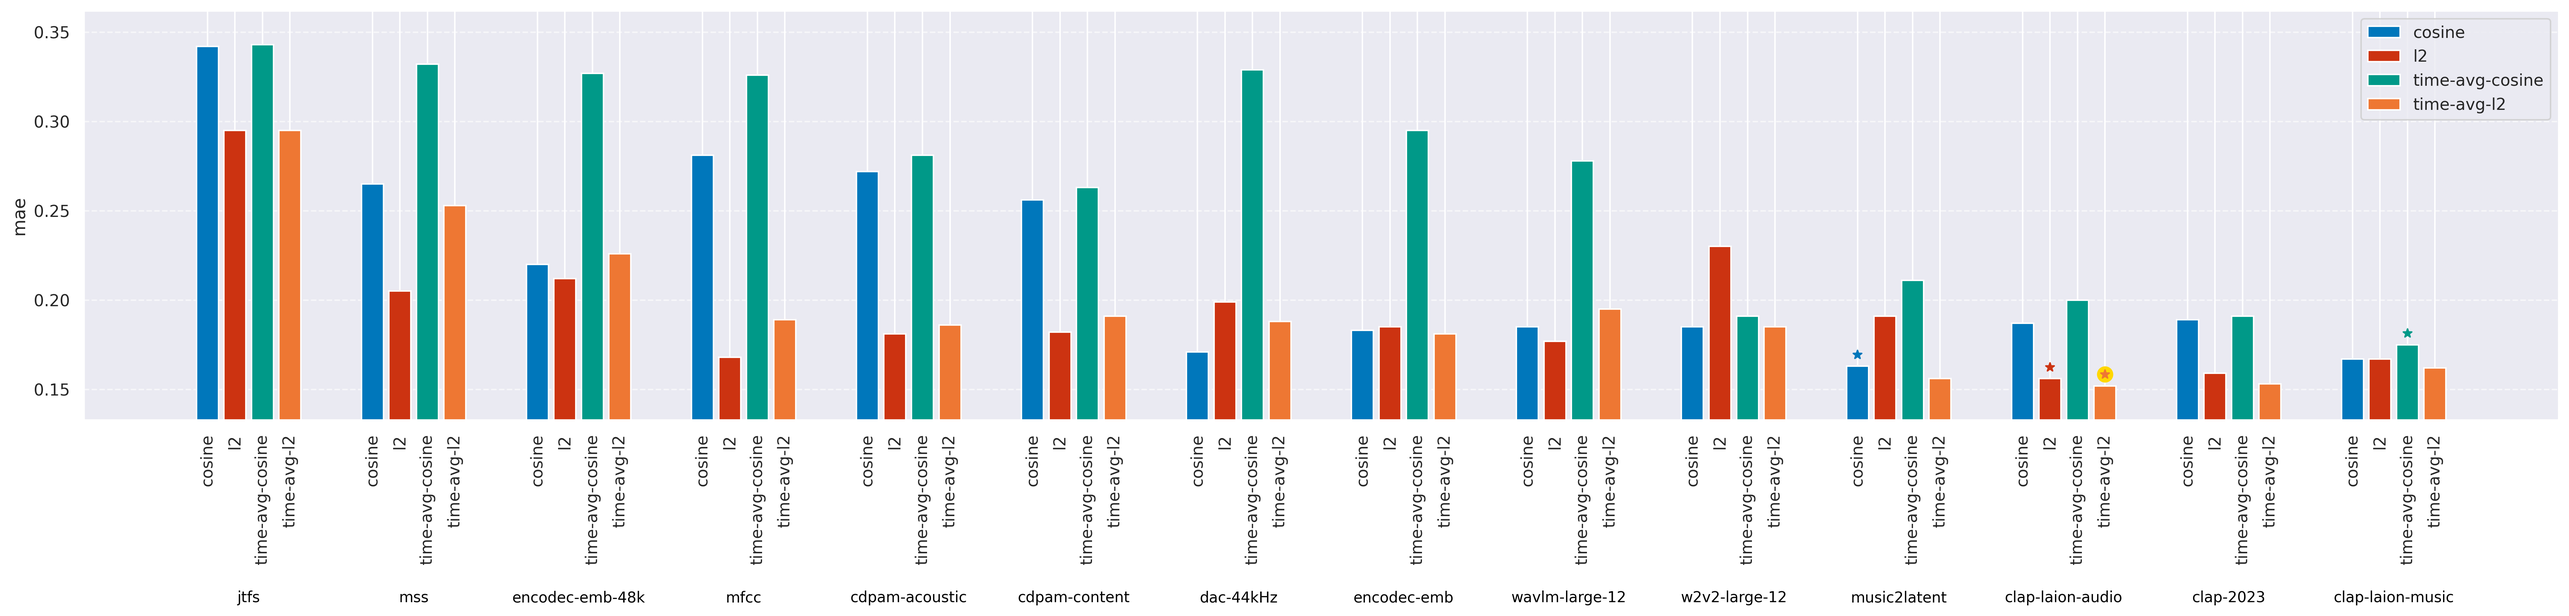
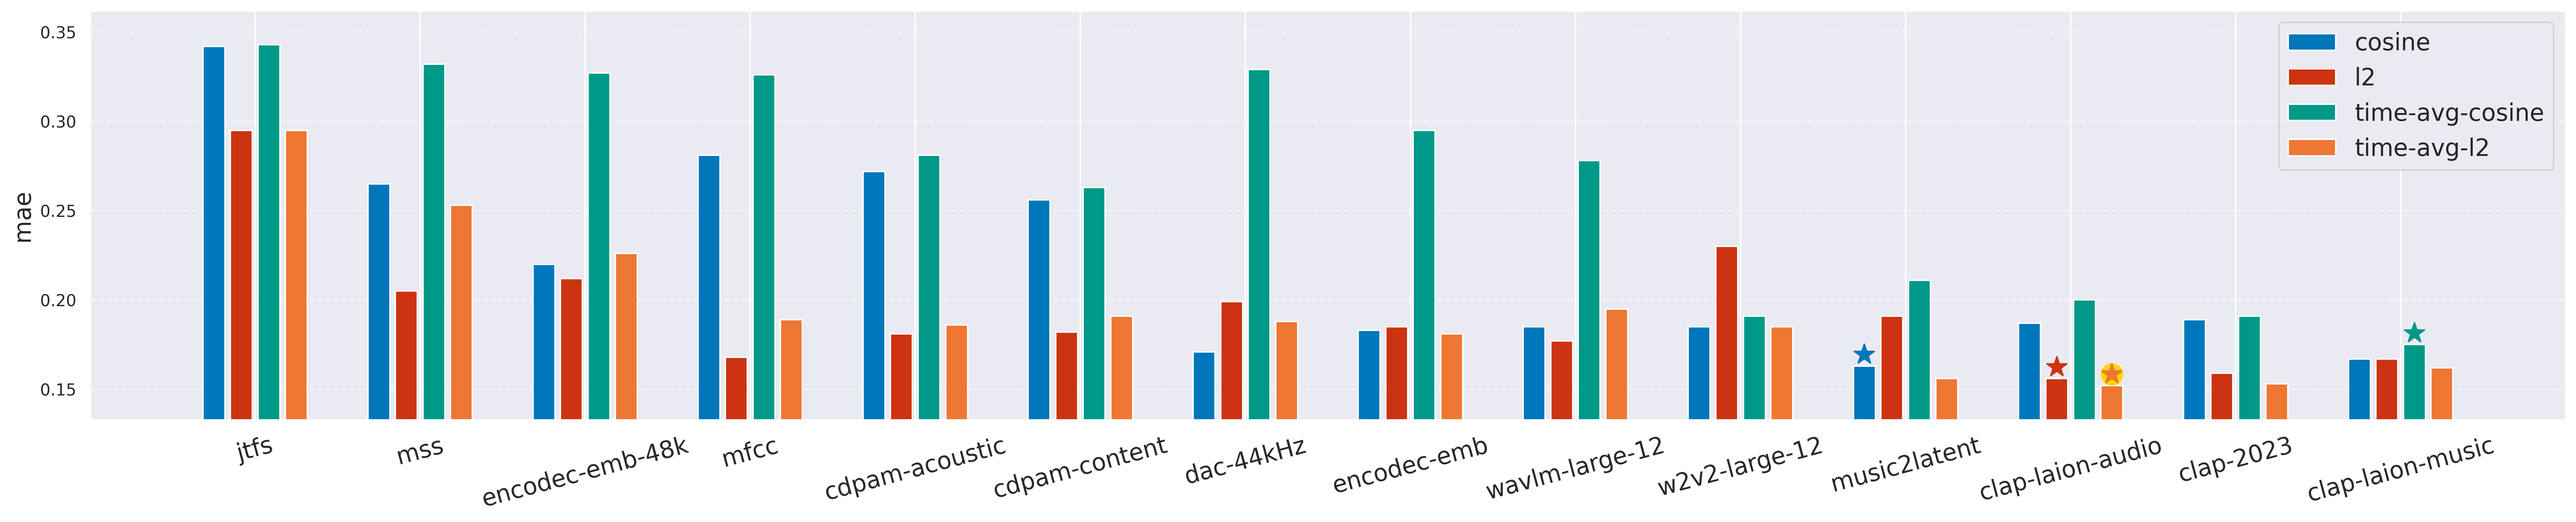
update plots

diff --git a/scripts/plot_leader_board.py b/scripts/plot_leader_board.py
@@ -120,37 +120,42 @@ for metric, scores in metric_scores.items():
 
     # Plot the gold marker behind the original marker
     ax.scatter(overall_best_x, overall_best_y + small_margin / 3, 
-            marker='o', color='gold', s=100)  # Larger size and lower z-order
+            marker='o', color='gold', s=200)  # Larger size and lower z-order
 
     # Plot the original markers
     ax.scatter(best_x, [y + small_margin / 3 for y in best_y], 
-            marker='*', color=colors)
+            marker='*', color=colors, s=200)
 
-    ax.set_xticks(x_positions)
-    ax.set_xticklabels([config.split(" ")[1] for config in keys], rotation=90)  # Rotate config labels
+    # ax.set_xticks(x_positions)
+    # ax.set_xticklabels([config.split(" ")[1] for config in keys], rotation=90)  # Rotate config labels
 
+    model_centers = []
     # Add model labels under the grouped config labels
     for model, x_range in model_x_ranges.items():
         # Calculate the center of the x_range for the model
-        model_center = sum(x_range) / len(x_range)
-        ax.text(
-            model_center,
-            min_value - small_margin*6,  # Position below the bars
-            model,  # Model name
-            ha="center",  # Center align
-            va="top",  # Align to the top of the text
-            fontsize=10,
-            color="black",
-        )
+        model_centers.append(sum(x_range) / len(x_range))
+        # ax.text(
+        #     model_center,
+        #     min_value - small_margin*5.5,  # Position below the bars
+        #     model,  # Model name
+        #     ha="center",  # Center align
+        #     va="top",  # Align to the top of the text
+        #     fontsize=16,
+        #     color="black",
+        #     rotation=30,
+        # )
 
-    ax.set_ylabel(metric)
+    ax.set_xticks(model_centers)
+    ax.set_xticklabels(list(model_x_ranges.keys()), rotation=15, fontsize=16)
+
+    ax.set_ylabel(metric, fontsize=16)
     ax.yaxis.grid(True, linestyle="--", alpha=0.6)
 
     ax.set_ylim(min_value - small_margin, max_value + small_margin)
 
     handles, labels = ax.get_legend_handles_labels()
     unique_labels = dict(zip(labels, handles))  # Use a dictionary to remove duplicates
-    ax.legend(unique_labels.values(), unique_labels.keys(), loc="upper right")
+    ax.legend(unique_labels.values(), unique_labels.keys(), loc="upper right", fontsize=16)
 
     plt.savefig(
         os.path.join(os.path.dirname(BASE_DIR), f"assets/{metric}_eval.png"),
